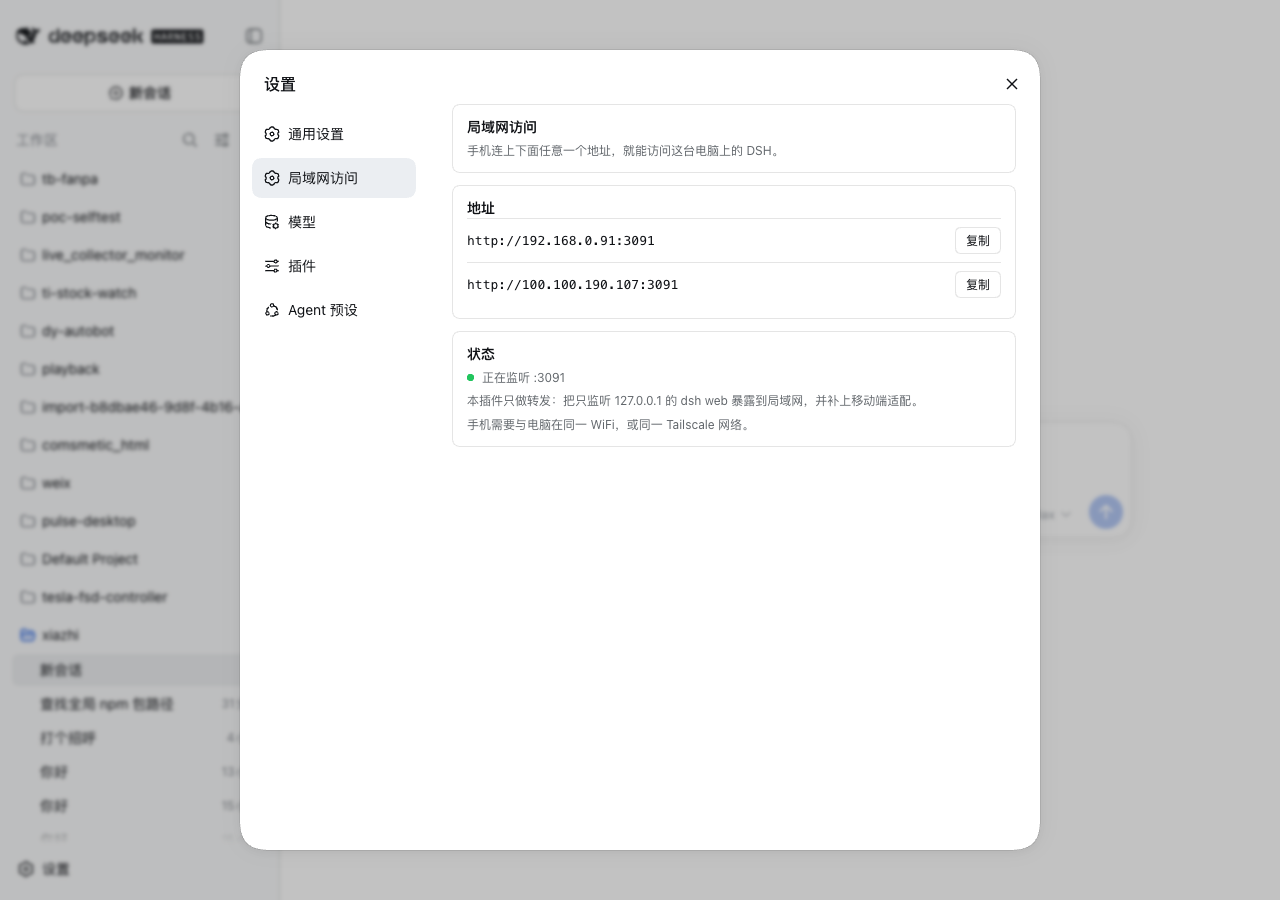
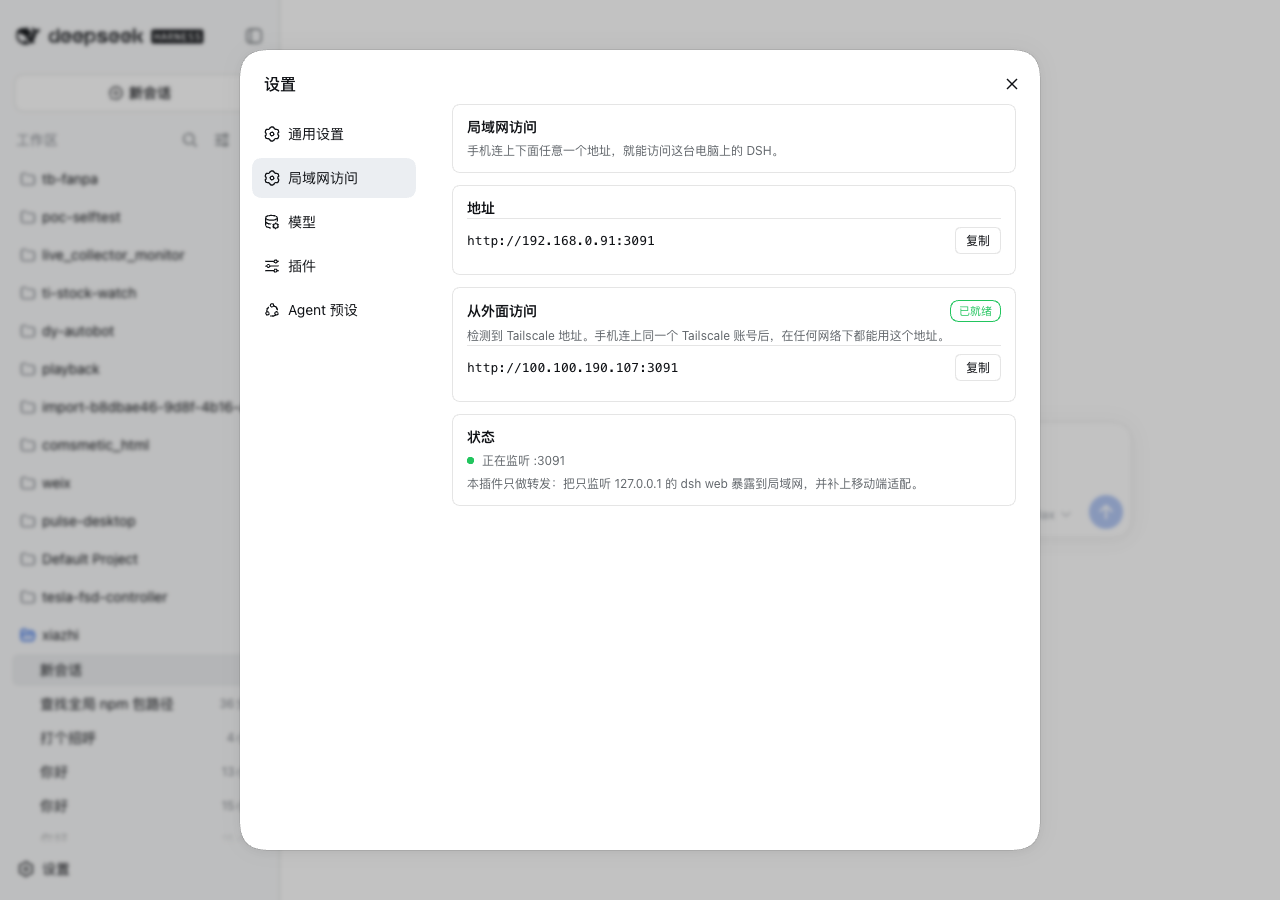
feat: 设置页加入公网访问引导，自动识别 Tailscale
新增「从外面访问」卡片，两种状态：

- 未装 Tailscale：给出三步安装引导 + 下载链接，并解释为什么不该做端口转发
  （dsh web 没有登录口令，暴露到公网等于把任意命令执行权交给扫描器）
- 已装：显示「已就绪」并直接列出可用的 100.x 地址

识别靠服务端枚举网卡时判断 100.64.0.0/10（Tailscale 的 CGNAT 段），
比让用户自己去对照有用得多。端点新增 tailscale 字段，同时保持它是
addresses 的子集，老客户端不受影响。

测试补到 7 个，含 100.64/10 的边界用例。

Changed region(s): [[0.3438, 0.28, 0.7812, 0.56], [0.75, 0.4044, 0.7812, 0.4356]]

diff --git a/client/client.js b/client/client.js
@@ -1,6 +1,6 @@
 // dsh-lan 的浏览器半：在 DSH 设置里加一个「局域网访问」页签。
 //
-// 这个文件**是手写的源码，没有构建步骤** —— 页面本身很简单（地址列表 + 状态），
+// 这个文件**是手写的源码，没有构建步骤** —— 页面本身很简单（地址列表 + 状态 + 引导），
 // 为它引入 esbuild 和一套打包配置不划算。DSH 的客户端模块系统用 __ModuleLoader__
 // 加载插件，包装只有几行；React 由宿主以**模块**形式提供（不是全局变量）。
 //
@@ -23,6 +23,8 @@ window.__ModuleLoader__.load({
 
     /** 只要 slots：用它把页签挂进设置。 */
     const inject = ['slots'];
+
+    const TAILSCALE_DOWNLOAD = 'https://tailscale.com/download';
 
     const ZH = (typeof navigator !== 'undefined' && String(navigator.language || '').toLowerCase().startsWith('zh'));
     const L = (zh, en) => (ZH ? zh : en);
@@ -48,6 +50,7 @@ window.__ModuleLoader__.load({
         background: C.card,
         padding: '12px 14px',
       },
+      head: { display: 'flex', alignItems: 'center', justifyContent: 'space-between', gap: 8 },
       title: { fontSize: 14, fontWeight: 600, color: C.primary },
       muted: { fontSize: 12, color: C.secondary, lineHeight: 1.6, marginTop: 4 },
       row: {
@@ -75,7 +78,45 @@ window.__ModuleLoader__.load({
         cursor: 'pointer',
         fontFamily: 'inherit',
       },
+      link: {
+        display: 'inline-block',
+        marginTop: 8,
+        color: C.brand,
+        fontSize: 12,
+        textDecoration: 'underline',
+      },
       dot: { display: 'inline-block', width: 7, height: 7, borderRadius: '50%', marginRight: 8 },
+      badge: {
+        flex: '0 0 auto',
+        fontSize: 11,
+        lineHeight: 1.6,
+        padding: '1px 8px',
+        borderRadius: 999,
+        color: C.ok,
+        border: '1px solid ' + C.ok,
+        background: 'transparent',
+      },
+      step: { display: 'flex', gap: 8, marginTop: 8, alignItems: 'flex-start' },
+      stepNo: {
+        flex: '0 0 auto',
+        width: 18,
+        height: 18,
+        borderRadius: '50%',
+        background: C.fill,
+        color: C.secondary,
+        fontSize: 11,
+        lineHeight: '18px',
+        textAlign: 'center',
+      },
+      stepText: { fontSize: 12, color: C.secondary, lineHeight: 1.6 },
+      note: {
+        marginTop: 10,
+        paddingTop: 8,
+        borderTop: '1px solid ' + C.border,
+        fontSize: 12,
+        color: C.tertiary,
+        lineHeight: 1.6,
+      },
     };
 
     /**
@@ -109,6 +150,71 @@ window.__ModuleLoader__.load({
       }
     }
 
+    function AddressRow(props) {
+      const url = props.url;
+      return h('div', { style: styles.row },
+        h('span', { style: styles.addr }, url),
+        h('button', { style: styles.btn, onClick: () => props.onCopy(url) },
+          props.copied === url ? L('已复制', 'Copied') : L('复制', 'Copy')),
+      );
+    }
+
+    /**
+     * 「从外面访问」卡片 —— 两种状态。
+     *
+     * 检测到 Tailscale 地址（100.64.0.0/10）就报喜并直接给出可填的地址；
+     * 没有才给安装步骤。比甩一句「请自行配置内网穿透」有用得多。
+     */
+    function RemoteCard(props) {
+      const tailscale = props.tailscale || [];
+      const ready = tailscale.length > 0;
+
+      return h('div', { style: styles.card },
+        h('div', { style: styles.head },
+          h('div', { style: styles.title }, L('从外面访问', 'Access from anywhere')),
+          ready ? h('span', { style: styles.badge }, L('已就绪', 'Ready')) : null,
+        ),
+
+        ready
+          ? h('div', null,
+              h('div', { style: styles.muted },
+                L('检测到 Tailscale 地址。手机连上同一个 Tailscale 账号后，在任何网络下都能用这个地址。',
+                  'Tailscale detected. Once your phone joins the same tailnet, this address works on any network.')),
+              tailscale.map((url) => h(AddressRow, { key: url, url, copied: props.copied, onCopy: props.onCopy })),
+            )
+
+          : h('div', null,
+              h('div', { style: styles.muted },
+                L('本插件只把 DSH 暴露到局域网。要在外面也能用，推荐 Tailscale：它给每台设备一个私有地址（100.x.y.z），设备之间直连，不经过第三方中转，也不用在路由器上开端口。',
+                  'This plugin only exposes DSH to your LAN. To reach it from anywhere, use Tailscale: it gives every device a private 100.x.y.z address with direct device-to-device links — no port forwarding, no third-party relay.')),
+
+              h('div', { style: styles.step },
+                h('div', { style: styles.stepNo }, '1'),
+                h('div', { style: styles.stepText },
+                  L('在电脑上安装 Tailscale 并登录', 'Install Tailscale on this computer and sign in')),
+              ),
+              h('div', { style: styles.step },
+                h('div', { style: styles.stepNo }, '2'),
+                h('div', { style: styles.stepText },
+                  L('手机上装一个，登录同一个账号', 'Install it on your phone and sign in with the same account')),
+              ),
+              h('div', { style: styles.step },
+                h('div', { style: styles.stepNo }, '3'),
+                h('div', { style: styles.stepText },
+                  L('回到这一页，会多出一个 100.x 地址，填进手机 App 即可',
+                    'Come back here — a 100.x address will appear. Use it in your phone app')),
+              ),
+
+              h('a', { href: TAILSCALE_DOWNLOAD, target: '_blank', rel: 'noreferrer', style: styles.link },
+                L('打开 tailscale.com/download →', 'Open tailscale.com/download →')),
+
+              h('div', { style: styles.note },
+                L('为什么不做端口转发：dsh web 没有登录口令，把它直接暴露到公网，等于把这台电脑的任意命令执行权交给扫描器。Tailscale 是设备级的私有网络，比开端口安全得多。',
+                  'Why not port-forward: dsh web has no password, so exposing it publicly hands arbitrary command execution on this machine to port scanners. Tailscale is a device-level private network — far safer than opening a port.')),
+            ),
+      );
+    }
+
     function LanSettings() {
       const [info, setInfo] = useState(null);
       const [error, setError] = useState(null);
@@ -129,7 +235,11 @@ window.__ModuleLoader__.load({
         setTimeout(() => setCopied(''), 1600);
       };
 
-      const addresses = (info && Array.isArray(info.addresses)) ? info.addresses : [];
+      const all = (info && Array.isArray(info.addresses)) ? info.addresses : [];
+      const tailscale = (info && Array.isArray(info.tailscale)) ? info.tailscale : [];
+      const tsSet = {};
+      tailscale.forEach((u) => { tsSet[u] = true; });
+      const lan = all.filter((u) => !tsSet[u]);
 
       return h('div', { style: styles.root },
 
@@ -140,7 +250,7 @@ window.__ModuleLoader__.load({
               'Open any address below on your phone to reach DSH on this machine.')),
         ),
 
-        // 地址列表
+        // 局域网地址
         h('div', { style: styles.card },
           h('div', { style: styles.title }, L('地址', 'Addresses')),
 
@@ -153,28 +263,24 @@ window.__ModuleLoader__.load({
             ? h('div', { style: styles.muted }, L('读取中…', 'Loading…'))
             : null,
 
-          !error && info && addresses.length === 0
+          !error && info && all.length === 0
             ? h('div', { style: styles.muted },
                 L('没有找到非回环网卡 —— 检查电脑的网络连接。',
                   'No non-loopback interface found — check the network connection.'))
             : null,
 
-          addresses.map((addr) => h('div', { key: addr, style: styles.row },
-            h('span', { style: styles.addr }, addr),
-            h('button', { style: styles.btn, onClick: () => onCopy(addr) },
-              copied === addr ? L('已复制', 'Copied') : L('复制', 'Copy')),
-          )),
+          lan.map((url) => h(AddressRow, { key: url, url, copied, onCopy })),
         ),
+
+        // 公网访问（有 Tailscale 就报喜，没有就给安装步骤）
+        error ? null : h(RemoteCard, { tailscale, copied, onCopy }),
 
         // 状态
         h('div', { style: styles.card },
           h('div', { style: styles.title }, L('状态', 'Status')),
           h('div', { style: { ...styles.muted, display: 'flex', alignItems: 'center' } },
             h('span', {
-              style: {
-                ...styles.dot,
-                background: (info && !error) ? C.ok : C.err,
-              },
+              style: { ...styles.dot, background: (info && !error) ? C.ok : C.err },
             }),
             (info && !error)
               ? L('正在监听 :', 'Listening on :') + String(info.port)
@@ -183,9 +289,6 @@ window.__ModuleLoader__.load({
           h('div', { style: styles.muted },
             L('本插件只做转发：把只监听 127.0.0.1 的 dsh web 暴露到局域网，并补上移动端适配。',
               'This plugin only forwards: it exposes the loopback-only dsh web to your LAN, plus mobile adaptation.')),
-          h('div', { style: styles.muted },
-            L('手机需要与电脑在同一 WiFi，或同一 Tailscale 网络。',
-              'Your phone must share the Wi-Fi or Tailscale network with this machine.')),
         ),
       );
     }

diff --git a/README.md b/README.md
@@ -81,7 +81,31 @@ dsh-lan: 局域网地址 http://192.168.1.100:3081  （上游 127.0.0.1:3080）
 
 ![设置页签](https://raw.githubusercontent.com/xiazhi88/dsh-lan/main/docs/settings-tab.png)
 
-它展示：本机所有可用地址（点一下复制）、监听状态、以及「手机需在同一网络」的提醒。
+它展示：本机所有可用地址（点一下复制）、**从外面访问的引导**、监听状态。
+
+### 公网访问（Tailscale）
+
+本插件只暴露到局域网 —— 直接开端口转发是危险的：`dsh web` 没有登录口令，
+暴露到公网等于把这台电脑的任意命令执行权交给扫描器。
+
+推荐 Tailscale：设备级私有网络，点对点直连，不用开端口。
+
+页签会**自动识别 Tailscale 是否已就绪** —— 服务端枚举网卡时就能认出
+`100.64.0.0/10`（CGNAT 段）的地址，所以两种状态给的是不同内容：
+
+| 已装 Tailscale | 未装 |
+|---|---|
+| ![已就绪](https://raw.githubusercontent.com/xiazhi88/dsh-lan/main/docs/settings-tab.png) | ![引导](https://raw.githubusercontent.com/xiazhi88/dsh-lan/main/docs/settings-tailscale-guide.png) |
+
+对应关系：
+
+```
+GET /__dsh_lan__/info
+→ { "addresses": ["http://192.168.1.100:3081", "http://100.100.190.107:3081"],
+    "tailscale": ["http://100.100.190.107:3081"] }
+```
+
+`tailscale` 非空即「已就绪」。它同时也是 `addresses` 的子集，所以老客户端不受影响。
 
 实现上是 DSH 客户端插件的一个 slot：
 
